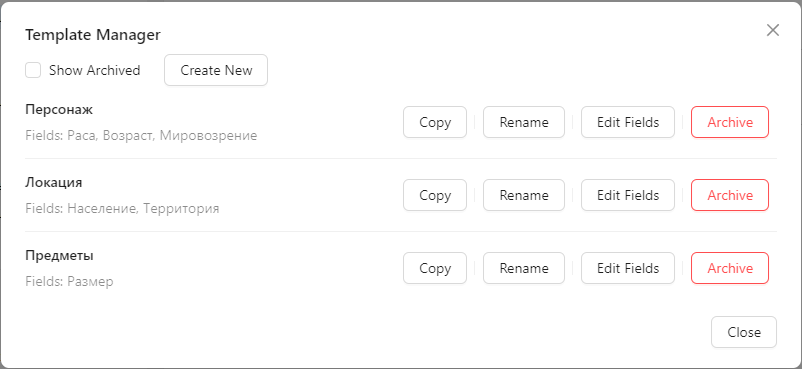
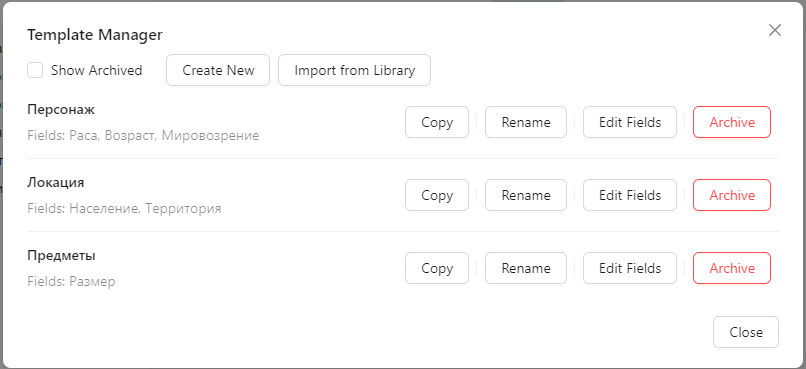
Add modal for library templates preview

diff --git a/src/renderer/components/TemplateManager/components/ImportTemplatesModal.tsx b/src/renderer/components/TemplateManager/components/ImportTemplatesModal.tsx
@@ -1,0 +1,124 @@
+import React, { useState, useMemo } from 'react';
+import { Modal, Button, Layout, List, Checkbox, Empty } from 'antd';
+import { PredefinedTemplate } from '../../../../common/types';
+
+const { Sider, Content } = Layout;
+
+interface ImportTemplatesModalProps {
+  visible: boolean;
+  onClose: () => void;
+  templatesToImport: PredefinedTemplate[];
+  onImport: (selectedTemplates: PredefinedTemplate[]) => void;
+}
+
+const ImportTemplatesModal = ({
+  visible,
+  onClose,
+  templatesToImport,
+  onImport,
+}: ImportTemplatesModalProps) => {
+  const [selectedTemplateNames, setSelectedTemplateNames] = useState<string[]>(
+    [],
+  );
+  const [focusedTemplateName, setFocusedTemplateName] = useState<string | null>(
+    null,
+  );
+
+  const handleToggleSelection = (templateName: string) => {
+    setSelectedTemplateNames((prev) =>
+      prev.includes(templateName)
+        ? prev.filter((name) => name !== templateName)
+        : [...prev, templateName],
+    );
+  };
+
+  const handleImport = () => {
+    const selected = templatesToImport.filter((t) =>
+      selectedTemplateNames.includes(t.name),
+    );
+    onImport(selected);
+  };
+
+  const focusedTemplate = useMemo(() => {
+    if (!focusedTemplateName) return null;
+    return (
+      templatesToImport.find((t) => t.name === focusedTemplateName) || null
+    );
+  }, [focusedTemplateName, templatesToImport]);
+
+  return (
+    <Modal
+      title="Import Templates from Library"
+      open={visible}
+      onCancel={onClose}
+      width={800}
+      footer={[
+        <Button key="cancel" onClick={onClose}>
+          Cancel
+        </Button>,
+        <Button
+          key="import"
+          type="primary"
+          disabled={selectedTemplateNames.length === 0}
+          onClick={handleImport}
+        >
+          Import Selected
+        </Button>,
+      ]}
+    >
+      <Layout className="import-modal-layout">
+        <Sider className="import-modal-sider">
+          <List
+            header={<div>Available Templates</div>}
+            bordered
+            dataSource={templatesToImport}
+            renderItem={(template) => (
+              <List.Item
+                onClick={() => setFocusedTemplateName(template.name)}
+                className={`template-list-item ${
+                  focusedTemplateName === template.name
+                    ? 'template-list-item-focused'
+                    : ''
+                }`}
+              >
+                <Checkbox
+                  checked={selectedTemplateNames.includes(template.name)}
+                  onChange={() => handleToggleSelection(template.name)}
+                  onClick={(e) => e.stopPropagation()}
+                />
+                <span className="template-list-item-label">
+                  {template.name}
+                </span>
+              </List.Item>
+            )}
+            className="template-list-container"
+          />
+        </Sider>
+        <Content className="import-modal-content">
+          {focusedTemplate ? (
+            <List
+              header={<div>Fields for &quot;{focusedTemplate.name}&quot;</div>}
+              bordered
+              dataSource={focusedTemplate.fields}
+              renderItem={(field) => (
+                <List.Item>
+                  <List.Item.Meta
+                    title={field.label}
+                    description={field.comment}
+                  />
+                </List.Item>
+              )}
+              className="template-list-container"
+            />
+          ) : (
+            <div className="empty-details-pane">
+              <Empty description="Select a template to see its fields" />
+            </div>
+          )}
+        </Content>
+      </Layout>
+    </Modal>
+  );
+};
+
+export default ImportTemplatesModal;

diff --git a/src/renderer/components/TemplateManager/TemplateManagerModal.tsx b/src/renderer/components/TemplateManager/TemplateManagerModal.tsx
@@ -1,10 +1,11 @@
 /* eslint-disable no-console */
 import React, { useState, useEffect } from 'react';
-import { Modal, Button, List, Checkbox, Dropdown, Menu } from 'antd';
+import { Modal, Button, List, Checkbox } from 'antd';
 import useTemplates from './useTemplates';
 import TemplateEditorModal, {
   TemplateEditModalState,
 } from './components/TemplateEditorModal';
+import ImportTemplatesModal from './components/ImportTemplatesModal';
 
 function TemplateManagerModal({
   visible,
@@ -21,7 +22,7 @@ function TemplateManagerModal({
     loading,
     fetchTemplates,
     handleArchive,
-    handleImportTemplate,
+    handleBulkImport,
   } = useTemplates('world'); // Assuming category 'world'
 
   const [editModalState, setEditModalState] = useState<TemplateEditModalState>({
@@ -29,6 +30,8 @@ function TemplateManagerModal({
     mode: 'create',
     template: null,
   });
+
+  const [isImportModalVisible, setImportModalVisible] = useState(false);
 
   useEffect(() => {
     if (visible) {
@@ -69,20 +72,10 @@ function TemplateManagerModal({
     (pt) => !existingTemplateNames.includes(pt.name),
   );
 
-  const importMenu = (
-    <Menu
-      onClick={({ key }) => {
-        const templateToImport = availableToImport.find((t) => t.name === key);
-        if (templateToImport) {
-          handleImportTemplate(templateToImport);
-        }
-      }}
-    >
-      {availableToImport.map((template) => (
-        <Menu.Item key={template.name}>{template.name}</Menu.Item>
-      ))}
-    </Menu>
-  );
+  const onTemplatesImport = (selectedTemplates: any[]) => {
+    handleBulkImport(selectedTemplates);
+    setImportModalVisible(false);
+  };
 
   return (
     <Modal
@@ -114,9 +107,13 @@ function TemplateManagerModal({
       >
         Create New
       </Button>
-      <Dropdown overlay={importMenu} disabled={availableToImport.length === 0}>
-        <Button style={{ marginLeft: 8 }}>Import from Library</Button>
-      </Dropdown>
+      <Button
+        style={{ marginLeft: 8 }}
+        disabled={availableToImport.length === 0}
+        onClick={() => setImportModalVisible(true)}
+      >
+        Import from Library
+      </Button>
       <List
         loading={loading}
         dataSource={templates}
@@ -181,6 +178,14 @@ function TemplateManagerModal({
         }
         onSave={handleEditModalSave}
       />
+      {isImportModalVisible && (
+        <ImportTemplatesModal
+          visible={isImportModalVisible}
+          templatesToImport={availableToImport}
+          onClose={() => setImportModalVisible(false)}
+          onImport={onTemplatesImport}
+        />
+      )}
     </Modal>
   );
 }

diff --git a/src/renderer/components/TemplateManager/useTemplates.ts b/src/renderer/components/TemplateManager/useTemplates.ts
@@ -84,6 +84,30 @@ const useTemplates = (category: string) => {
     [fetchTemplates],
   );
 
+  const handleBulkImport = useCallback(
+    async (templatesToImport: PredefinedTemplate[]) => {
+      if (templatesToImport.length === 0) return;
+
+      try {
+        await Promise.all(
+          templatesToImport.map((template) =>
+            window.electron.template.importTemplate(template),
+          ),
+        );
+
+        message.success(
+          `Successfully imported ${templatesToImport.length} templates.`,
+        );
+        fetchTemplates();
+        window.electron.ipcRenderer.sendMessage('world-objects-changed');
+      } catch (err) {
+        console.error('Failed to import templates', err);
+        message.error(`Failed to import templates: ${err}`);
+      }
+    },
+    [fetchTemplates],
+  );
+
   return {
     templates,
     predefinedTemplates,
@@ -93,6 +117,7 @@ const useTemplates = (category: string) => {
     fetchTemplates,
     handleArchive,
     handleImportTemplate,
+    handleBulkImport,
   };
 };
 

diff --git a/src/renderer/App.css b/src/renderer/App.css
@@ -94,3 +94,43 @@
 .settings-category-group {
   margin-bottom: 24px;
 }
+
+/* Styles for ImportTemplatesModal */
+.import-modal-layout {
+  background: #fff;
+}
+
+.import-modal-sider {
+  background: #fff !important; /* Use !important to override Ant Design's default sider background */
+  padding-right: 16px;
+}
+
+.import-modal-content {
+  padding-left: 16px;
+}
+
+.template-list-container {
+  height: 400px;
+  overflow: auto;
+}
+
+.template-list-item {
+  cursor: pointer;
+}
+
+.template-list-item-focused {
+  background-color: #e6f7ff;
+}
+
+.template-list-item-label {
+  margin-left: 8px;
+}
+
+.empty-details-pane {
+  display: flex;
+  align-items: center;
+  justify-content: center;
+  height: 100%;
+  border: 1px solid #d9d9d9;
+  border-radius: 2px;
+}
